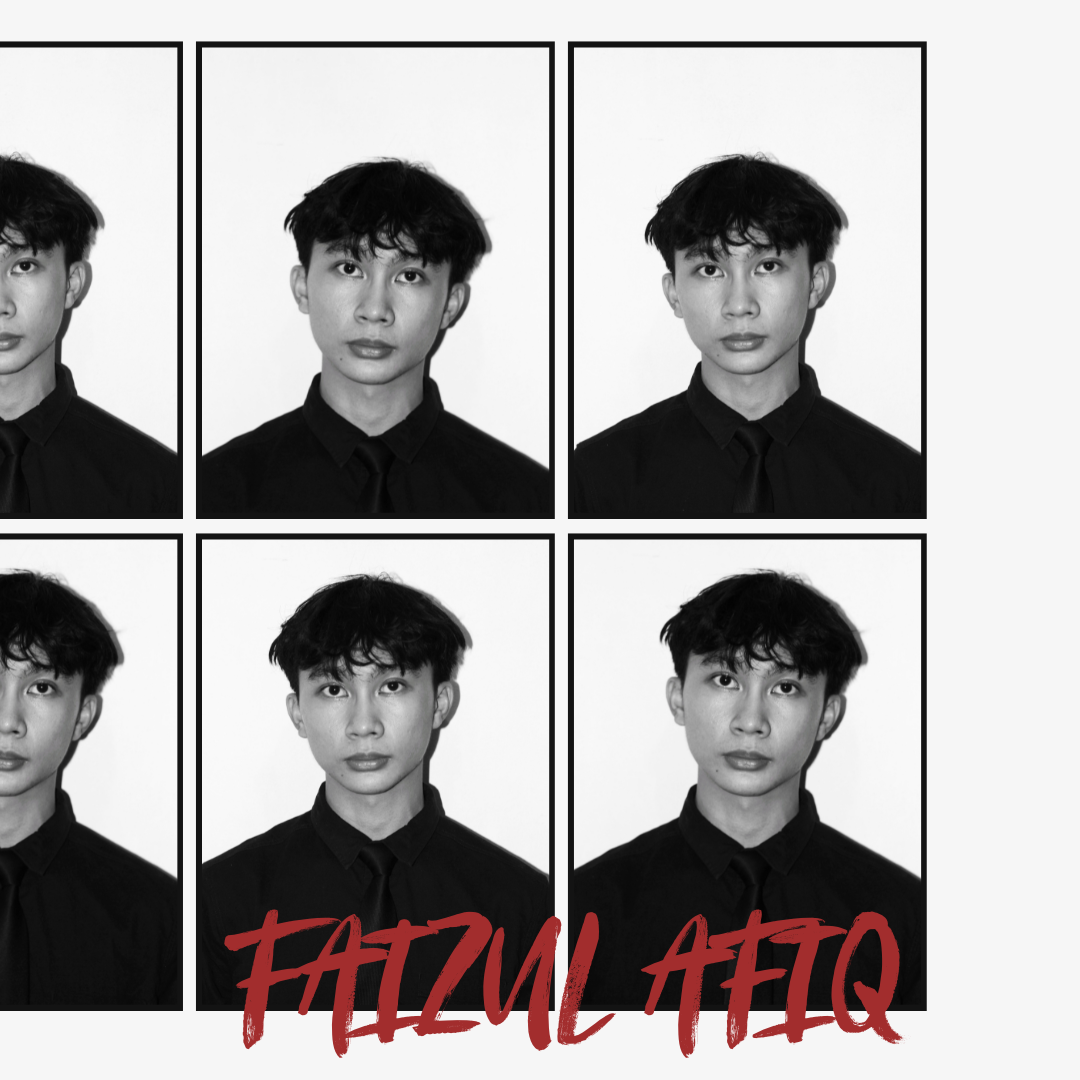
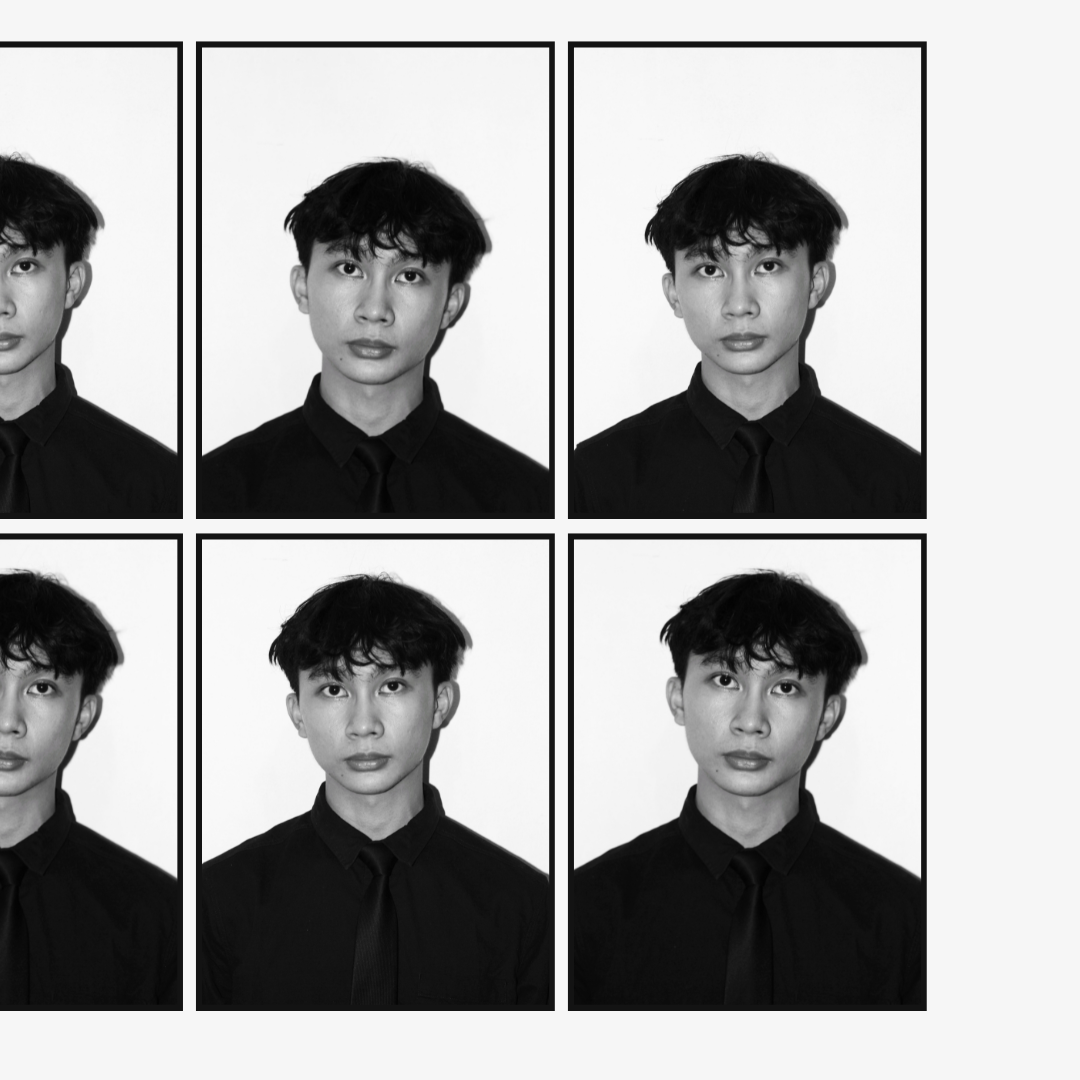
update 28 jan
change image, add about me texts and a js file.

Changed region(s): [[0.2139, 0.825, 0.5806, 0.9778], [0.5806, 0.825, 0.8556, 0.9778]]

diff --git a/index.html b/index.html
@@ -12,19 +12,29 @@
     <nav class="navbar">
         <a href="#" class="logo">faizulafiq</a>
         <div class="nav-links">
-            <a href="#about">about me</a>
-            <a href="#projects">projects</a>
-            <a href="#contact">say hi</a>
+            <a href="#about" id="about-link">about me</a>
+            <a href="#projects" id="projects-link">projects</a>
+            <a href="#contact" id="contact-link">say hi</a>
         </div>
     </nav>
 
-    <!-- Placeholder sections -->
-    <section id="about" class="about" style="height: 100vh;">
-        <img src="faizulafiq.png" alt="faizulafiq" width="600" height="600">
+    <section id="about" class="about-section">
+        <div class="about-image">
+            <img src="faizulafiq.png" alt="Image of faizulafiq">
+        </div>
+        <div class="about-text">
+            <h2>Hello.</h2>
+            <p>I'm <b>Faizul Afiq</b>, a computer science graduate from UNIMAS with a passion in tech as well as art and design.
+               I enjoy using my creativity and problem-solving skills to create digital experiences that not only look great but
+               also work seamlessly. Hobby? I would say photography and watching movies.
+            </p>
+        </div>
     </section>
-    <section id="projects" style="height: 100vh;">Projects Section</section>
-    <section id="contact" style="height: 100vh;">Contact Section</section>
+
+    <section id="projects" class="projects-section">Projects Section</section>
+    <section id="contact" class="contact-section">Contact Section</section>
     
+    <script src="script.js"></script>
 </body>
 
 </html>

diff --git a/style.css b/style.css
@@ -1,3 +1,19 @@
+html {
+    scroll-behavior: smooth;
+}
+
+section {
+    height: 100vh;
+}
+
+img {
+    font-style: italic;
+    shape-margin: 1rem;
+    max-width: 100%;
+    vertical-align: middle;
+    height: auto;
+}
+
 body {
     margin: 0;
     font-family: Arial, sans-serif;
@@ -9,14 +25,19 @@ body {
     display: flex;
     justify-content: space-between;
     align-items: center;
-    padding: 4rem 10rem 1rem 10rem;
+    padding: 5rem 10rem 0 10rem;
     background-color: transparent;
+    position: fixed;
+    top: 0;
+    left: 0;
+    right: 0;
+    z-index: 100;
 }
 
 .navbar .logo {
     font-size: 1rem;
     font-weight: bold;
-    color: #333;
+    color: #a22d2d;
     text-decoration: none;
 }
 
@@ -27,15 +48,37 @@ body {
 
 .navbar .nav-links a {
     text-decoration: none;
-    color: #333;
+    color: #4d4d4d;
     font-size: 1rem;
     transition: color 0.3s;
+    transition: color 0.3s ease-in-out;
 }
 
-.navbar .nav-links a:hover {
+.navbar .nav-links a:hover, .navbar .nav-links a.bold:hover {
     color: #007bff;
 }
 
-.about {
+.navbar .nav-links a.bold {
+    color: #000000;
+}
+
+.about-section {
     display: flex;
+    flex-wrap: wrap;
+    align-items: center;
+    justify-content: center;
+    padding: 0;
+    box-sizing: border-box;
+    overflow: hidden;
+}
+
+.about-image {
+    flex: 1;
+}
+
+.about-text {
+    flex: 1;
+    font-size: 1rem;
+    text-align: justify;
+    padding: 0 10rem 0 0;
 }

diff --git a/script.js b/script.js
@@ -1,0 +1,31 @@
+// Get the sections and corresponding navbar links
+const sections = [
+    { sectionId: 'about', linkId: 'about-link' },
+    { sectionId: 'projects', linkId: 'projects-link' },
+    { sectionId: 'contact', linkId: 'contact-link' },
+];
+
+// Function to check if a section is in view
+function checkIfInView() {
+    sections.forEach(item => {
+        const section = document.getElementById(item.sectionId);
+        const link = document.getElementById(item.linkId);
+        
+        // Get the position of the section
+        const rect = section.getBoundingClientRect();
+        const inView = rect.top >= 0 && rect.bottom <= window.innerHeight;
+
+        // Add or remove the blue class based on whether the section is in view
+        if (inView) {
+            link.classList.add('bold');
+        } else {
+            link.classList.remove('bold');
+        }
+    });
+}
+
+// Listen for scroll events and check if the sections are in view
+window.addEventListener('scroll', checkIfInView);
+
+// Check on page load in case a section is already in view
+document.addEventListener('DOMContentLoaded', checkIfInView);
